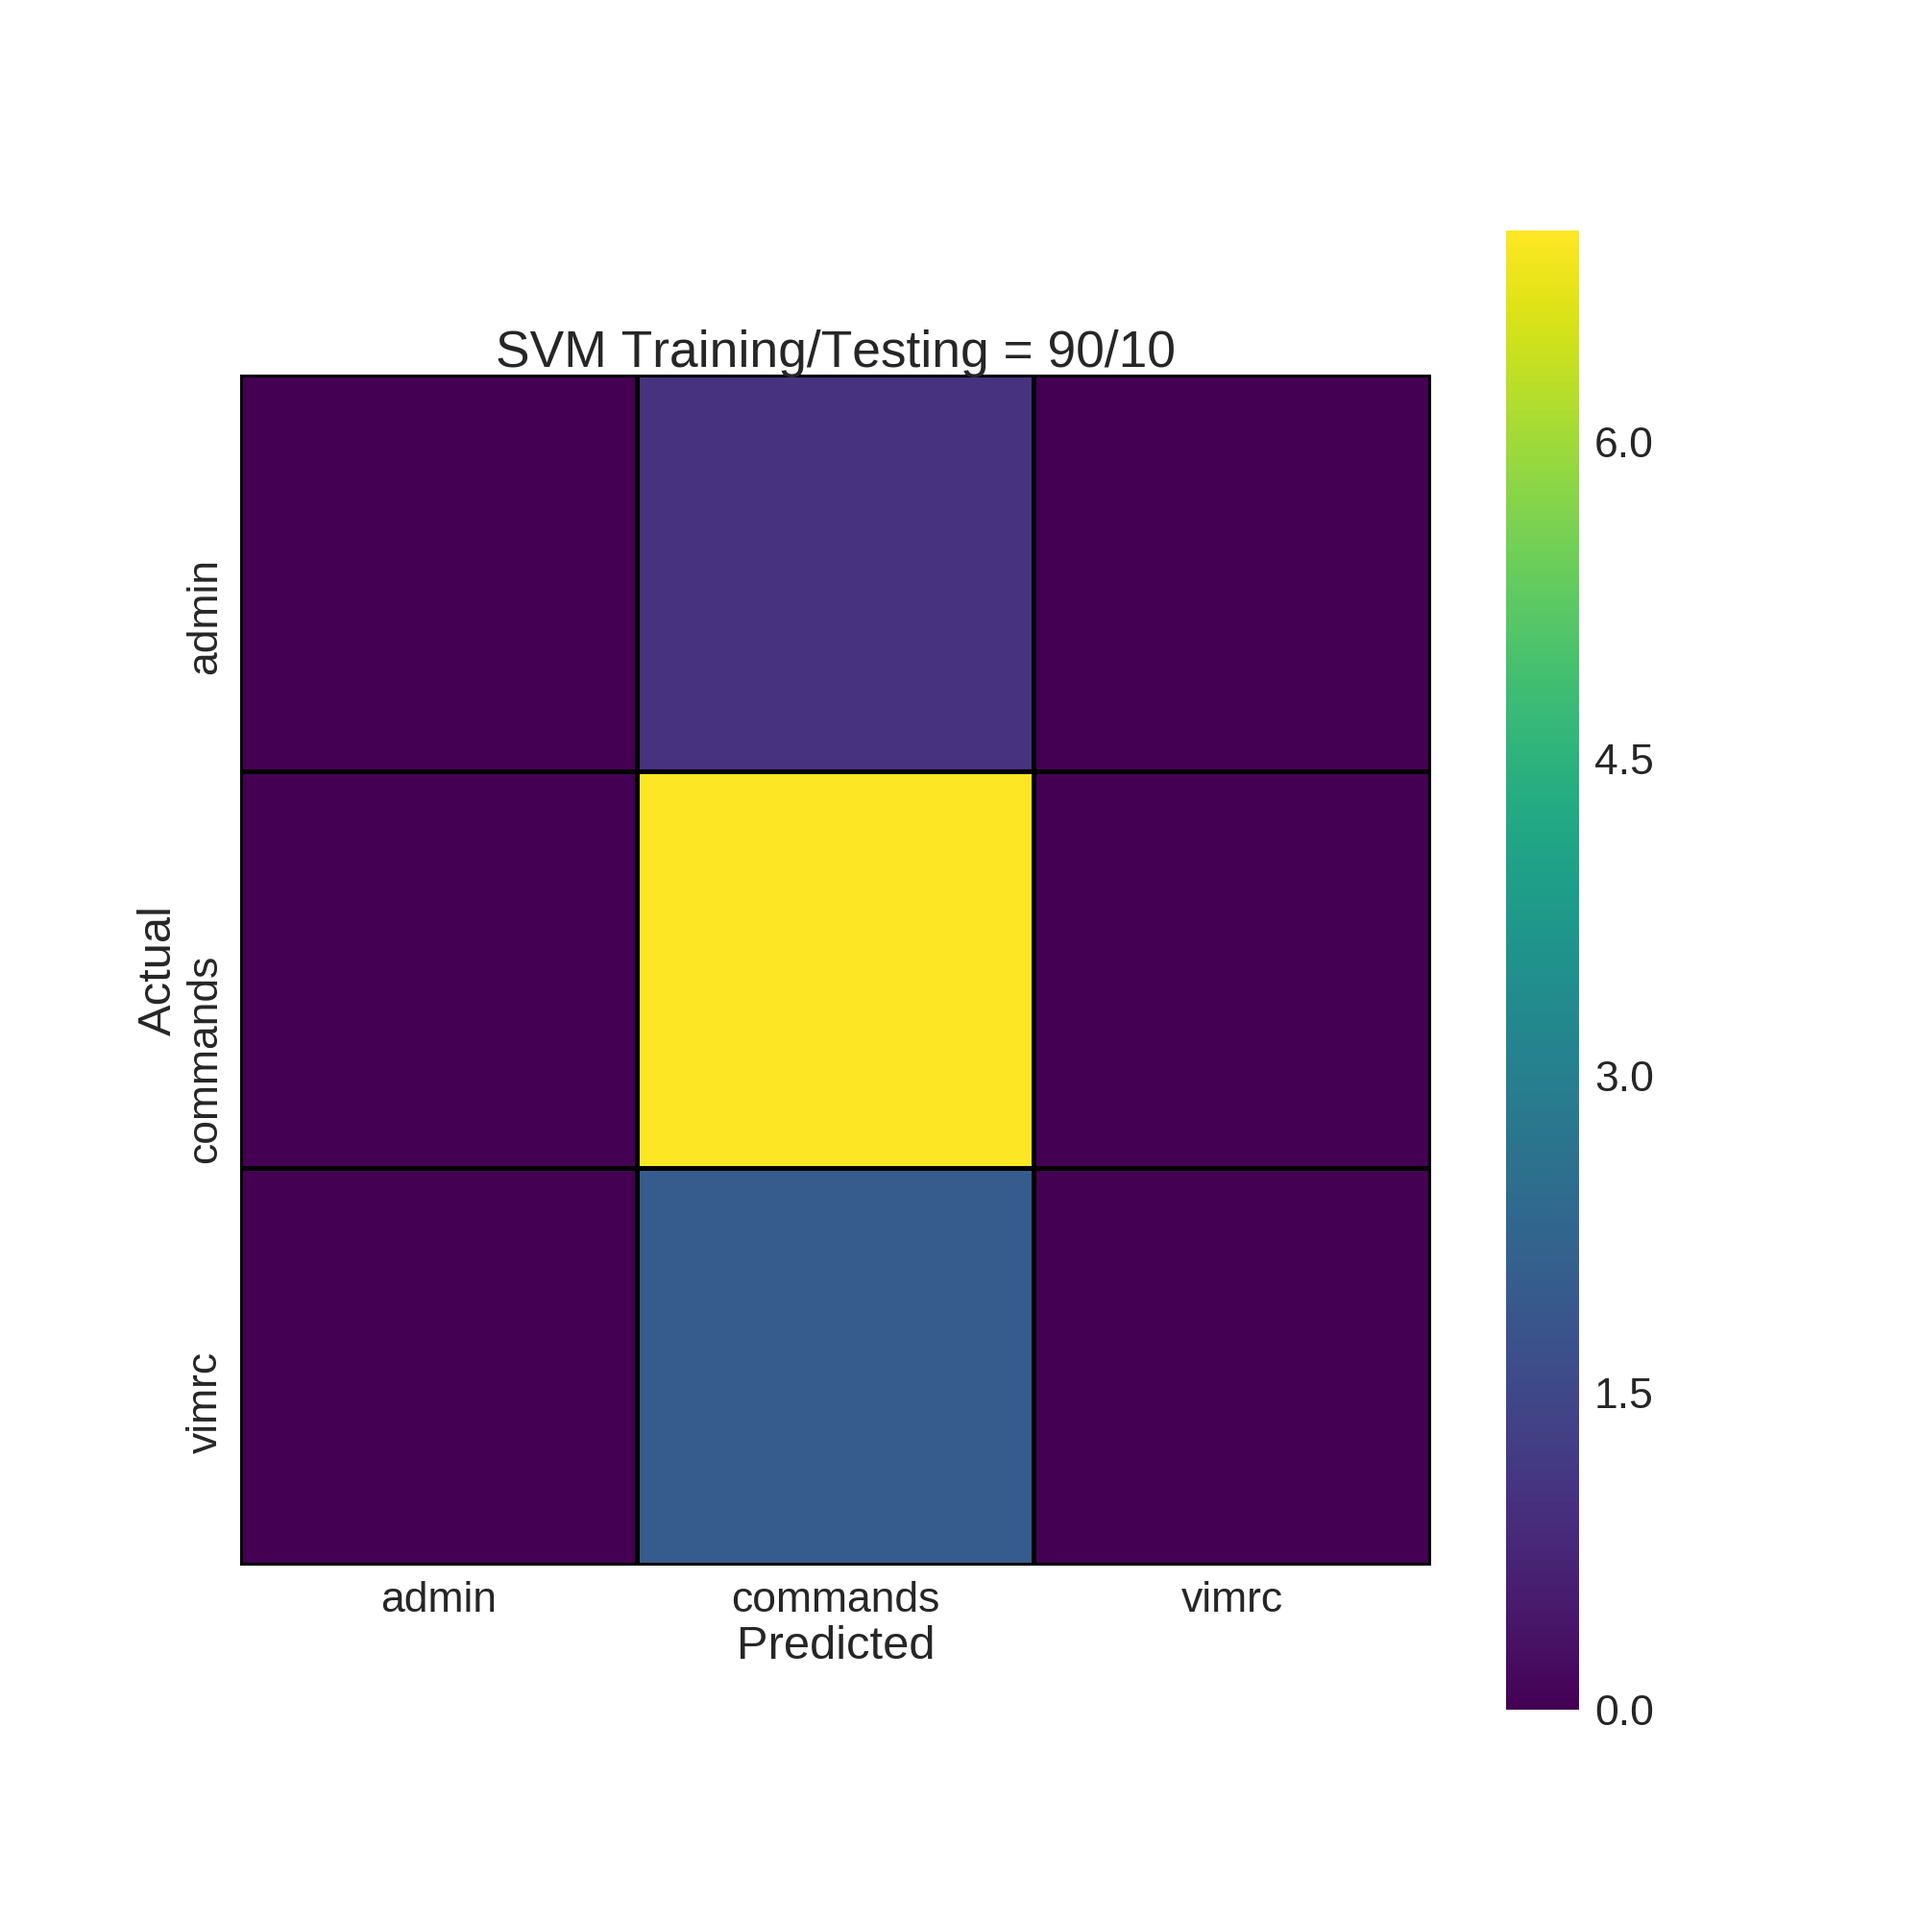
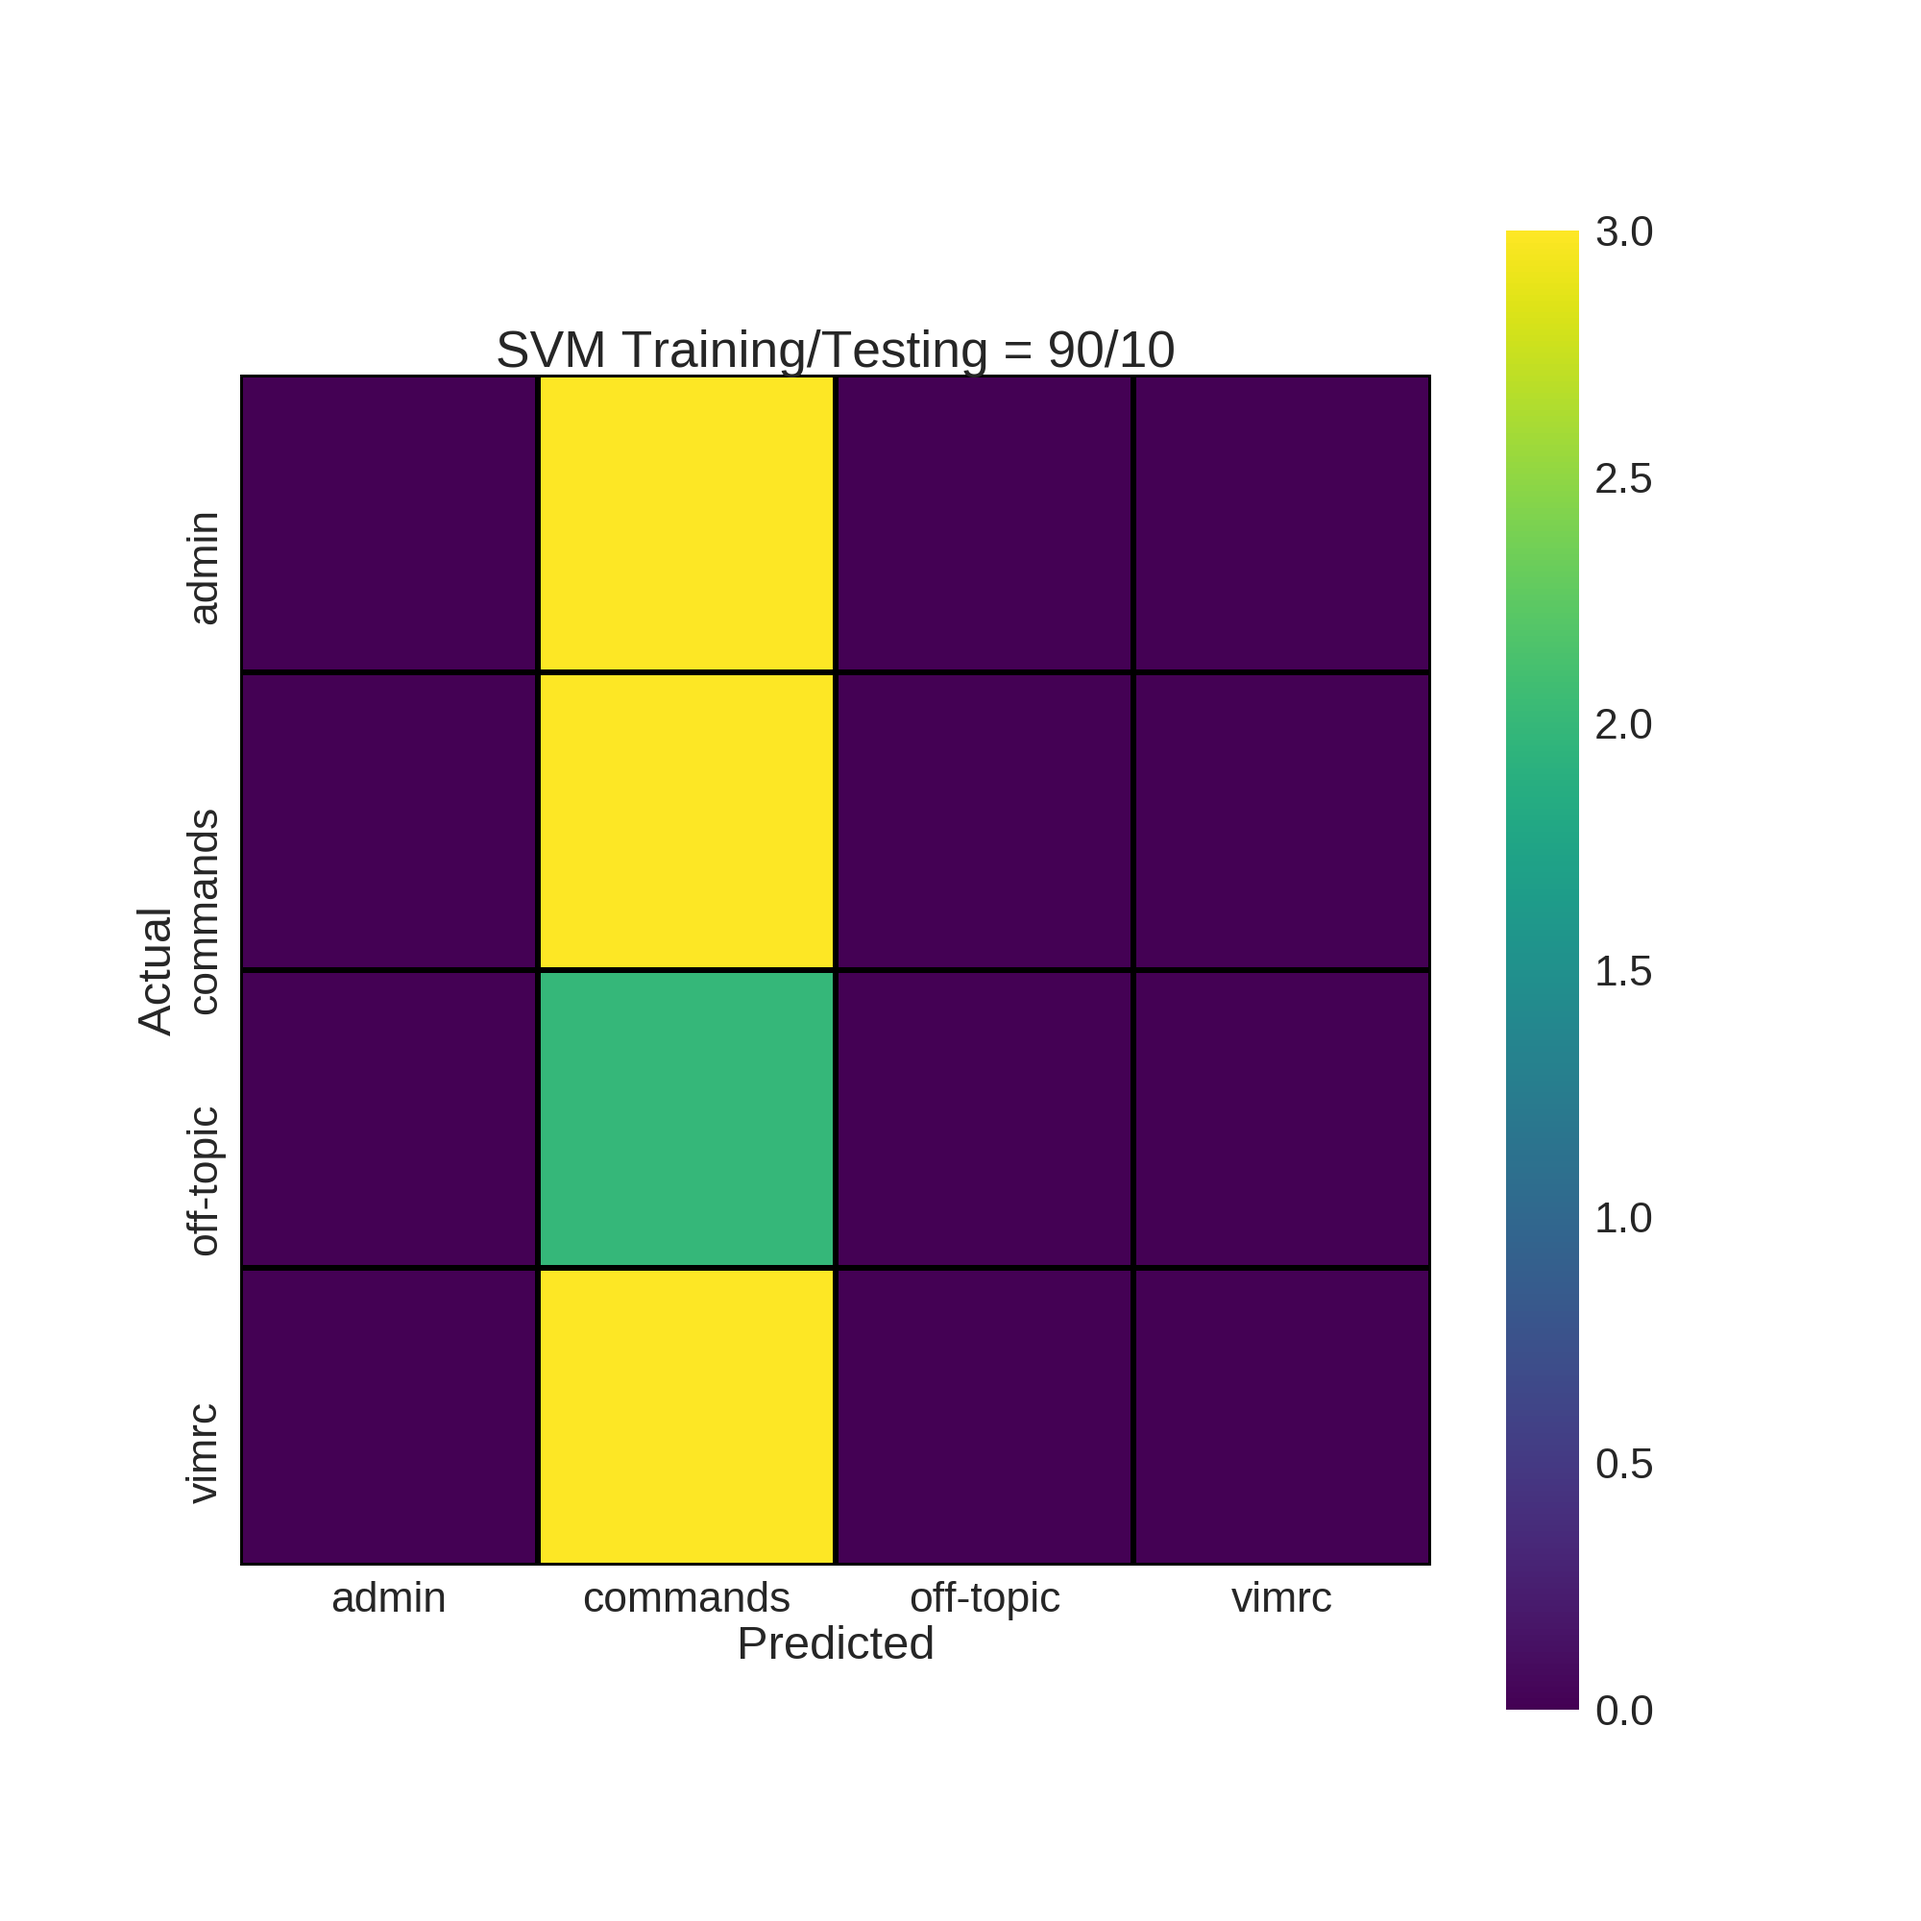
normalization now consistant

diff --git a/assignments/assignment_ten/train_validate_libsvm/train_validate.py b/assignments/assignment_ten/train_validate_libsvm/train_validate.py
@@ -91,23 +91,25 @@ def train_test(data, training_percent=0.90):
     lable_encoder = preprocessing.LabelEncoder()
     lable_encoder.fit(list(set(categories)))
 
-    print("[*] Dividing Data into Training/Testing")
-    training, validation = split_data(data, training_percent)
-
     print("[*] Normalizing Data")
-    norm_training = normalize_data(training, lable_encoder)
-    norm_validation = normalize_data(validation, lable_encoder)
+    norm_data = normalize_data(data, lable_encoder)
+
+    print("[*] Dividing Data into Training/Testing")
+    training, validation = split_data(norm_data, training_percent)
+
+    #norm_training = normalize_data(training, lable_encoder)
+    #norm_validation = normalize_data(validation, lable_encoder)
 
     print("[*] Training...")
-    training_features = norm_training[1]
-    training_classifications = norm_training[2]
+    training_features = training[1]
+    training_classifications = training[2]
     clf.fit(training_features, training_classifications)
 
     print("[*] Testing...")
-    validation_features = norm_validation[1]
+    validation_features = validation[1]
 
     print("[*] Getting Statistics")
-    validation_categories = validation[2]
+    validation_categories = lable_encoder.inverse_transform(validation[2])
     predicted = clf.predict(validation_features)
     predicted_str = lable_encoder.inverse_transform(predicted)
     c_matrix = ConfusionMatrix(validation_categories, predicted_str)

diff --git a/assignments/assignment_ten/train_validate_libsvm/tables/svm.rst b/assignments/assignment_ten/train_validate_libsvm/tables/svm.rst
@@ -11,4 +11,5 @@ Jumping to a Buffer                        commands     commands
 Fun With Unicode ٩(●̮̮̃•̃)۶                    commands     commands
 Editor Comparison                          commands     off-topic
 Vim + Eclipse = Eclim                      commands     off-topic
+Vim.js                                     commands     plugins
 =========================================  ===========  =========
